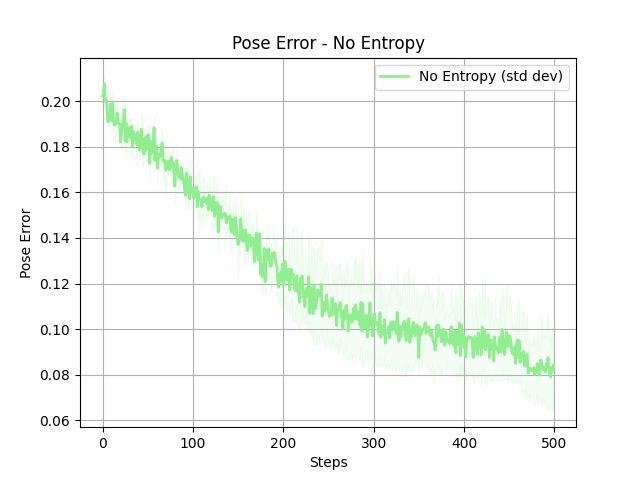
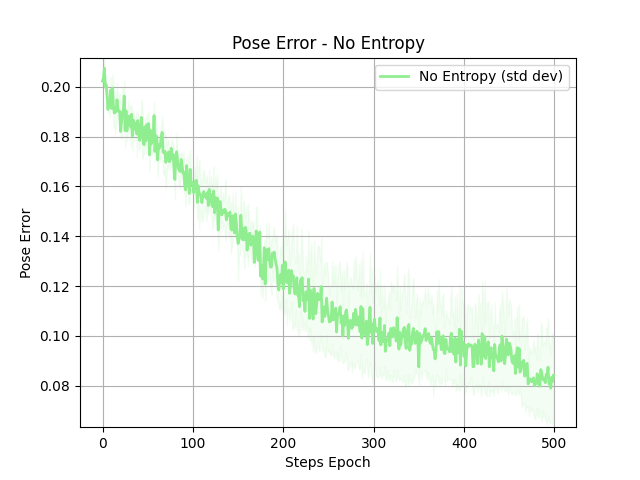
demo replay

diff --git a/automate_graphs.py b/automate_graphs.py
@@ -60,35 +60,47 @@ def main():
     }
 
     tags = {"reward_5": "Pose Error", "total_reward": "Total Reward", "episode_len": "Episode Length"}
-
     colors = {"Standard": "blue", "Demo Replay": "red", "No Entropy": "lightgreen"}
 
-    for tag, tag_label in tags.items():
-        for group_name, files in file_groups.items():
-            steps, mean_values, std_values = aggregate_data(files, tag)
-            plt.figure()
-            plot_with_error_bands(steps, mean_values, std_values, label=f"{group_name} (std dev)", color=colors[group_name])
-            plt.title(f"{tag_label} - {group_name}")
-            plt.xlabel("Steps")
-            plt.ylabel(tag_label)
-            plt.legend()
-            plt.grid()
-            plt.savefig(f"{tag}_{group_name}.png")
-            plt.close()
+    y_limits = {}
 
-    # Combined plots with error bands
+    # First, create combined plots to determine y-axis limits
     for tag, tag_label in tags.items():
         plt.figure()
+        y_min, y_max = float('inf'), float('-inf')
+        
         for group_name, files in file_groups.items():
             steps, mean_values, std_values = aggregate_data(files, tag)
             plot_with_error_bands(steps, mean_values, std_values, label=f"{group_name} (std dev)", color=colors[group_name])
+            y_min = min(y_min, np.min(mean_values - std_values))
+            y_max = max(y_max, np.max(mean_values + std_values))
+        
         plt.title(f"{tag_label} - Combined with Error Bands")
-        plt.xlabel("Steps")
+        plt.xlabel("Steps Epoch")
         plt.ylabel(tag_label)
         plt.legend(title="Legend (std dev: shaded area)")
         plt.grid()
         plt.savefig(f"{tag}_all_with_error_bands.png")
         plt.close()
+
+        y_limits[tag] = (y_min, y_max)
+
+    # Now, create individual plots with consistent y-axis limits
+    for tag, tag_label in tags.items():
+        y_min, y_max = y_limits[tag]
+
+        for group_name, files in file_groups.items():
+            steps, mean_values, std_values = aggregate_data(files, tag)
+            plt.figure()
+            plot_with_error_bands(steps, mean_values, std_values, label=f"{group_name} (std dev)", color=colors[group_name])
+            plt.ylim(y_min, y_max)  # Apply the same y-axis limits
+            plt.title(f"{tag_label} - {group_name}")
+            plt.xlabel("Steps Epoch")  # Updated x-axis label
+            plt.ylabel(tag_label)
+            plt.legend()
+            plt.grid()
+            plt.savefig(f"{tag}_{group_name}.png")
+            plt.close()
 
 if __name__ == "__main__":
     main()

diff --git a/agent_envs/humanoid_replay_mocap.py b/agent_envs/humanoid_replay_mocap.py
@@ -83,17 +83,17 @@ class HumanoidReplayMocap(HumanoidBase):
         self.prev_qpos = self.data.qpos.copy()
         self.prev_qvel = self.data.qvel.copy()
         self.prev_bquat = self.bquat.copy()
-        self.do_simulation(a, self.frame_skip)
+        #self.do_simulation(a, self.frame_skip)
         
         #index for the expert add
         self.cur_t += 1
         print("index expert", self.cur_t)
         t = self.get_expert_index(self.cur_t)
         print('t', t)
-        #self.data.qpos[:] = self.get_expert_attr('qpos', t).copy()
-        #self.data.qvel[:] = self.get_expert_attr('qvel', t).copy()
+        self.data.qpos[:] = self.get_expert_attr('qpos', t).copy()
+        self.data.qvel[:] = self.get_expert_attr('qvel', t).copy()
         
-        #mj.mj_forward(self.model, self.data)
+        mj.mj_forward(self.model, self.data)
         
         
         pose_error = self.pose_error()
